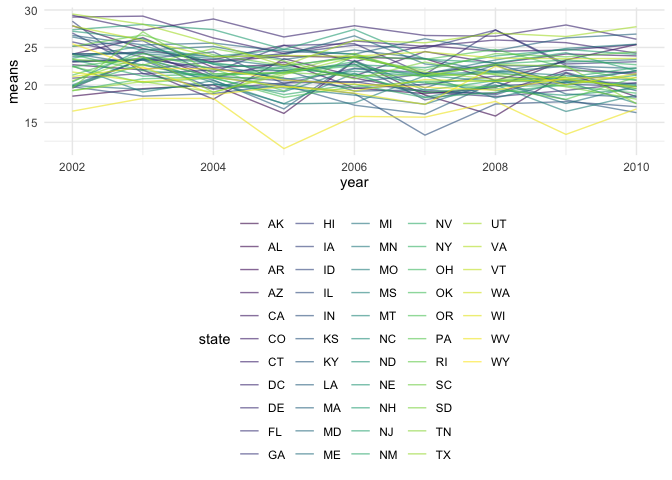
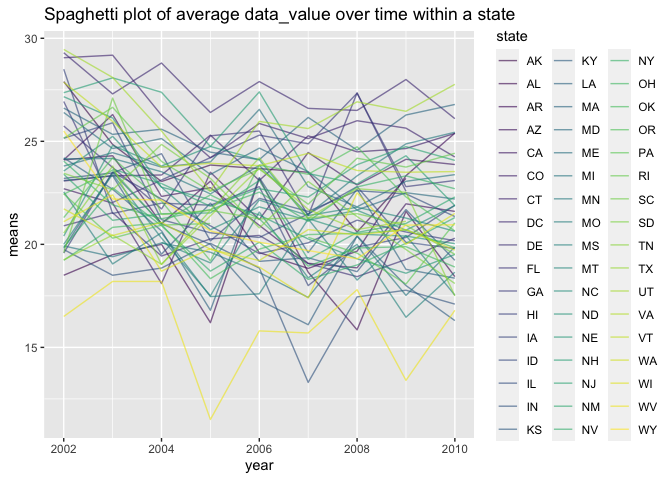
Add title

diff --git a/p8105_hw3_xs2447.md b/p8105_hw3_xs2447.md
@@ -22,8 +22,6 @@ library(tidyverse)
 library(leaflet)
 library(gghighlight)
 
-theme_set(theme_minimal() + theme(legend.position = "bottom"))
-
 options(
   ggplot2.continuous.colour = "viridis",
   ggplot2.continuous.fill = "viridis"
@@ -97,7 +95,8 @@ aisle_df %>%
   filter(n_obs > 10000) %>% 
   ggplot(aes(x = aisle, y = n_obs)) +
   geom_col() +
-  coord_flip() 
+  coord_flip() +
+  labs(title = "Number of items ordered in each aisle (more than 10000 items)")
 ```
 
 ![](p8105_hw3_xs2447_files/figure-gfm/unnamed-chunk-4-1.png)<!-- -->
@@ -151,20 +150,25 @@ mean_hour_of_day = instacart %>%
   filter(product_name %in% c("Pink Lady Apples", "Coffee Ice Cream")) %>% 
   group_by(order_dow) %>% 
   summarize(mean_hour = mean(order_hour_of_day)) %>% 
+  mutate(order_dow = recode(order_dow, 
+                            "0" = "Sunday", "1" = "Monday",
+                            "2" = "Tuesday", "3" = "Wednesday", 
+                            "4" = "Thursday", "5" = "Friday",
+                            "6" = "Saturday")) %>% 
   knitr::kable()
 
 mean_hour_of_day
 ```
 
 | order\_dow | mean\_hour |
-|-----------:|-----------:|
-|          0 |   13.60000 |
-|          1 |   12.17391 |
-|          2 |   12.83824 |
-|          3 |   14.68519 |
-|          4 |   13.17308 |
-|          5 |   12.64286 |
-|          6 |   13.25000 |
+|:-----------|-----------:|
+| Sunday     |   13.60000 |
+| Monday     |   12.17391 |
+| Tuesday    |   12.83824 |
+| Wednesday  |   14.68519 |
+| Thursday   |   13.17308 |
+| Friday     |   12.64286 |
+| Saturday   |   13.25000 |
 
 For Pink Lady Apples and Coffee Ice Cream, the mean hour of order is at
 mid of the day on each day, the mean ranges from 12.17391 to 14.68519.
@@ -261,7 +265,8 @@ brfss %>%
   group_by(state, year) %>% 
   summarize(means = mean(data_value)) %>% 
   ggplot(aes(x = year, y = means, color = state)) +
-  geom_line(alpha = .6) 
+  geom_line(alpha = .6) +
+  labs(title = "Spaghetti plot of average data_value over time within a state")
 ```
 
     ## `summarise()` has grouped output by 'state'. You can override using the `.groups` argument.
@@ -281,7 +286,8 @@ brfss %>%
   summarize(means = mean(data_value)) %>% 
   ggplot(aes(x = year, y = means, color = state)) +
   geom_line(alpha = .6) +
-  gghighlight(state == "WV") 
+  gghighlight(state == "WV") +
+  labs(title = "Spaghetti plot of average data_value over time within a state with highlight")
 ```
 
     ## `summarise()` has grouped output by 'state'. You can override using the `.groups` argument.
@@ -304,20 +310,20 @@ locations in NY State.
 
 ``` r
 brfss %>% 
-  filter(state == "NY", year == c(2006, 2010)) %>% 
-  ggplot(aes(x = response)) +
-  geom_bar() + 
-  facet_grid(.~year)
+  filter(state == "NY", year %in% c(2006, 2010)) %>% 
+  ggplot(aes(x = data_value, fill = response)) +
+  geom_density( alpha = 0.6) + 
+  facet_grid(.~year) +
+  scale_fill_discrete(limits = c("Poor","Fair", "Good", "Very good", "Excellent")) +
+  labs(title = "Distribution of data_value for responses in NY State in 2006 and 2010")
 ```
-
-    ## Warning in year == c(2006, 2010): longer object length is not a multiple of
-    ## shorter object length
 
 ![](p8105_hw3_xs2447_files/figure-gfm/unnamed-chunk-13-1.png)<!-- -->
 
-From the plot, we can see that the responses is equally distributed in
-2006 while in 2010, more people choose good or poor. We can also find we
-get more response in 2010 compare to 2006.
+From the plot, we can see that the data\_value for poor responses are
+extremely low. The density peaks of data values for Excellent, good and
+very good increase, while the distribution of fair response becomes
+flatter.
 
 ## Problem 3
 
@@ -369,50 +375,57 @@ showing these totals. Are any trends apparent?
 ``` r
 accel_tidy_df %>% 
   group_by(day_id) %>% 
-  summarize(day_total = sum(activity_count)) %>% 
+  mutate(sum = sum(activity_count)) %>% 
+  group_by(week, day, sum) %>% 
+  summarize() %>% 
   knitr::kable()
 ```
 
-| day\_id | day\_total |
-|--------:|-----------:|
-|       1 |  480542.62 |
-|       2 |   78828.07 |
-|       3 |  376254.00 |
-|       4 |  631105.00 |
-|       5 |  355923.64 |
-|       6 |  307094.24 |
-|       7 |  340115.01 |
-|       8 |  568839.00 |
-|       9 |  295431.00 |
-|      10 |  607175.00 |
-|      11 |  422018.00 |
-|      12 |  474048.00 |
-|      13 |  423245.00 |
-|      14 |  440962.00 |
-|      15 |  467420.00 |
-|      16 |  685910.00 |
-|      17 |  382928.00 |
-|      18 |  467052.00 |
-|      19 |  371230.00 |
-|      20 |  381507.00 |
-|      21 |  468869.00 |
-|      22 |  154049.00 |
-|      23 |  409450.00 |
-|      24 |    1440.00 |
-|      25 |  260617.00 |
-|      26 |  340291.00 |
-|      27 |  319568.00 |
-|      28 |  434460.00 |
-|      29 |  620860.00 |
-|      30 |  389080.00 |
-|      31 |    1440.00 |
-|      32 |  138421.00 |
-|      33 |  549658.00 |
-|      34 |  367824.00 |
-|      35 |  445366.00 |
+    ## `summarise()` has grouped output by 'week', 'day'. You can override using the `.groups` argument.
+
+| week | day       |       sum |
+|-----:|:----------|----------:|
+|    1 | Friday    | 480542.62 |
+|    1 | Monday    |  78828.07 |
+|    1 | Saturday  | 376254.00 |
+|    1 | Sunday    | 631105.00 |
+|    1 | Thursday  | 355923.64 |
+|    1 | Tuesday   | 307094.24 |
+|    1 | Wednesday | 340115.01 |
+|    2 | Friday    | 568839.00 |
+|    2 | Monday    | 295431.00 |
+|    2 | Saturday  | 607175.00 |
+|    2 | Sunday    | 422018.00 |
+|    2 | Thursday  | 474048.00 |
+|    2 | Tuesday   | 423245.00 |
+|    2 | Wednesday | 440962.00 |
+|    3 | Friday    | 467420.00 |
+|    3 | Monday    | 685910.00 |
+|    3 | Saturday  | 382928.00 |
+|    3 | Sunday    | 467052.00 |
+|    3 | Thursday  | 371230.00 |
+|    3 | Tuesday   | 381507.00 |
+|    3 | Wednesday | 468869.00 |
+|    4 | Friday    | 154049.00 |
+|    4 | Monday    | 409450.00 |
+|    4 | Saturday  |   1440.00 |
+|    4 | Sunday    | 260617.00 |
+|    4 | Thursday  | 340291.00 |
+|    4 | Tuesday   | 319568.00 |
+|    4 | Wednesday | 434460.00 |
+|    5 | Friday    | 620860.00 |
+|    5 | Monday    | 389080.00 |
+|    5 | Saturday  |   1440.00 |
+|    5 | Sunday    | 138421.00 |
+|    5 | Thursday  | 549658.00 |
+|    5 | Tuesday   | 367824.00 |
+|    5 | Wednesday | 445366.00 |
 
 The total counts of activity fluctuate significantly, range from 1440 to
-685910, so there is no apparent trend.
+685910. It is hard to give some general trends because sometimes this
+people do more activity on Friday, sometimes on Saturday or other days.
+But, apparently in lase two weeks, the people’s activity counts are
+extremely low on Saturday.
 
 \*Accelerometer data allows the inspection activity over the course of
 the day. Make a single-panel plot that shows the 24-hour activity time
@@ -424,7 +437,8 @@ accel_tidy_df %>%
   ggplot(aes(x = minute, y = activity_count, color = day)) +
   geom_point(alpha = .3) +
   geom_smooth(alpha = .7, se = FALSE) + 
-  scale_x_continuous(breaks = seq(0, 1440, 120))
+  scale_x_continuous(breaks = seq(0, 1440, 120)) + 
+  labs(title = "24-hour activity time courses for each day")
 ```
 
     ## `geom_smooth()` using method = 'gam' and formula 'y ~ s(x, bs = "cs")'
